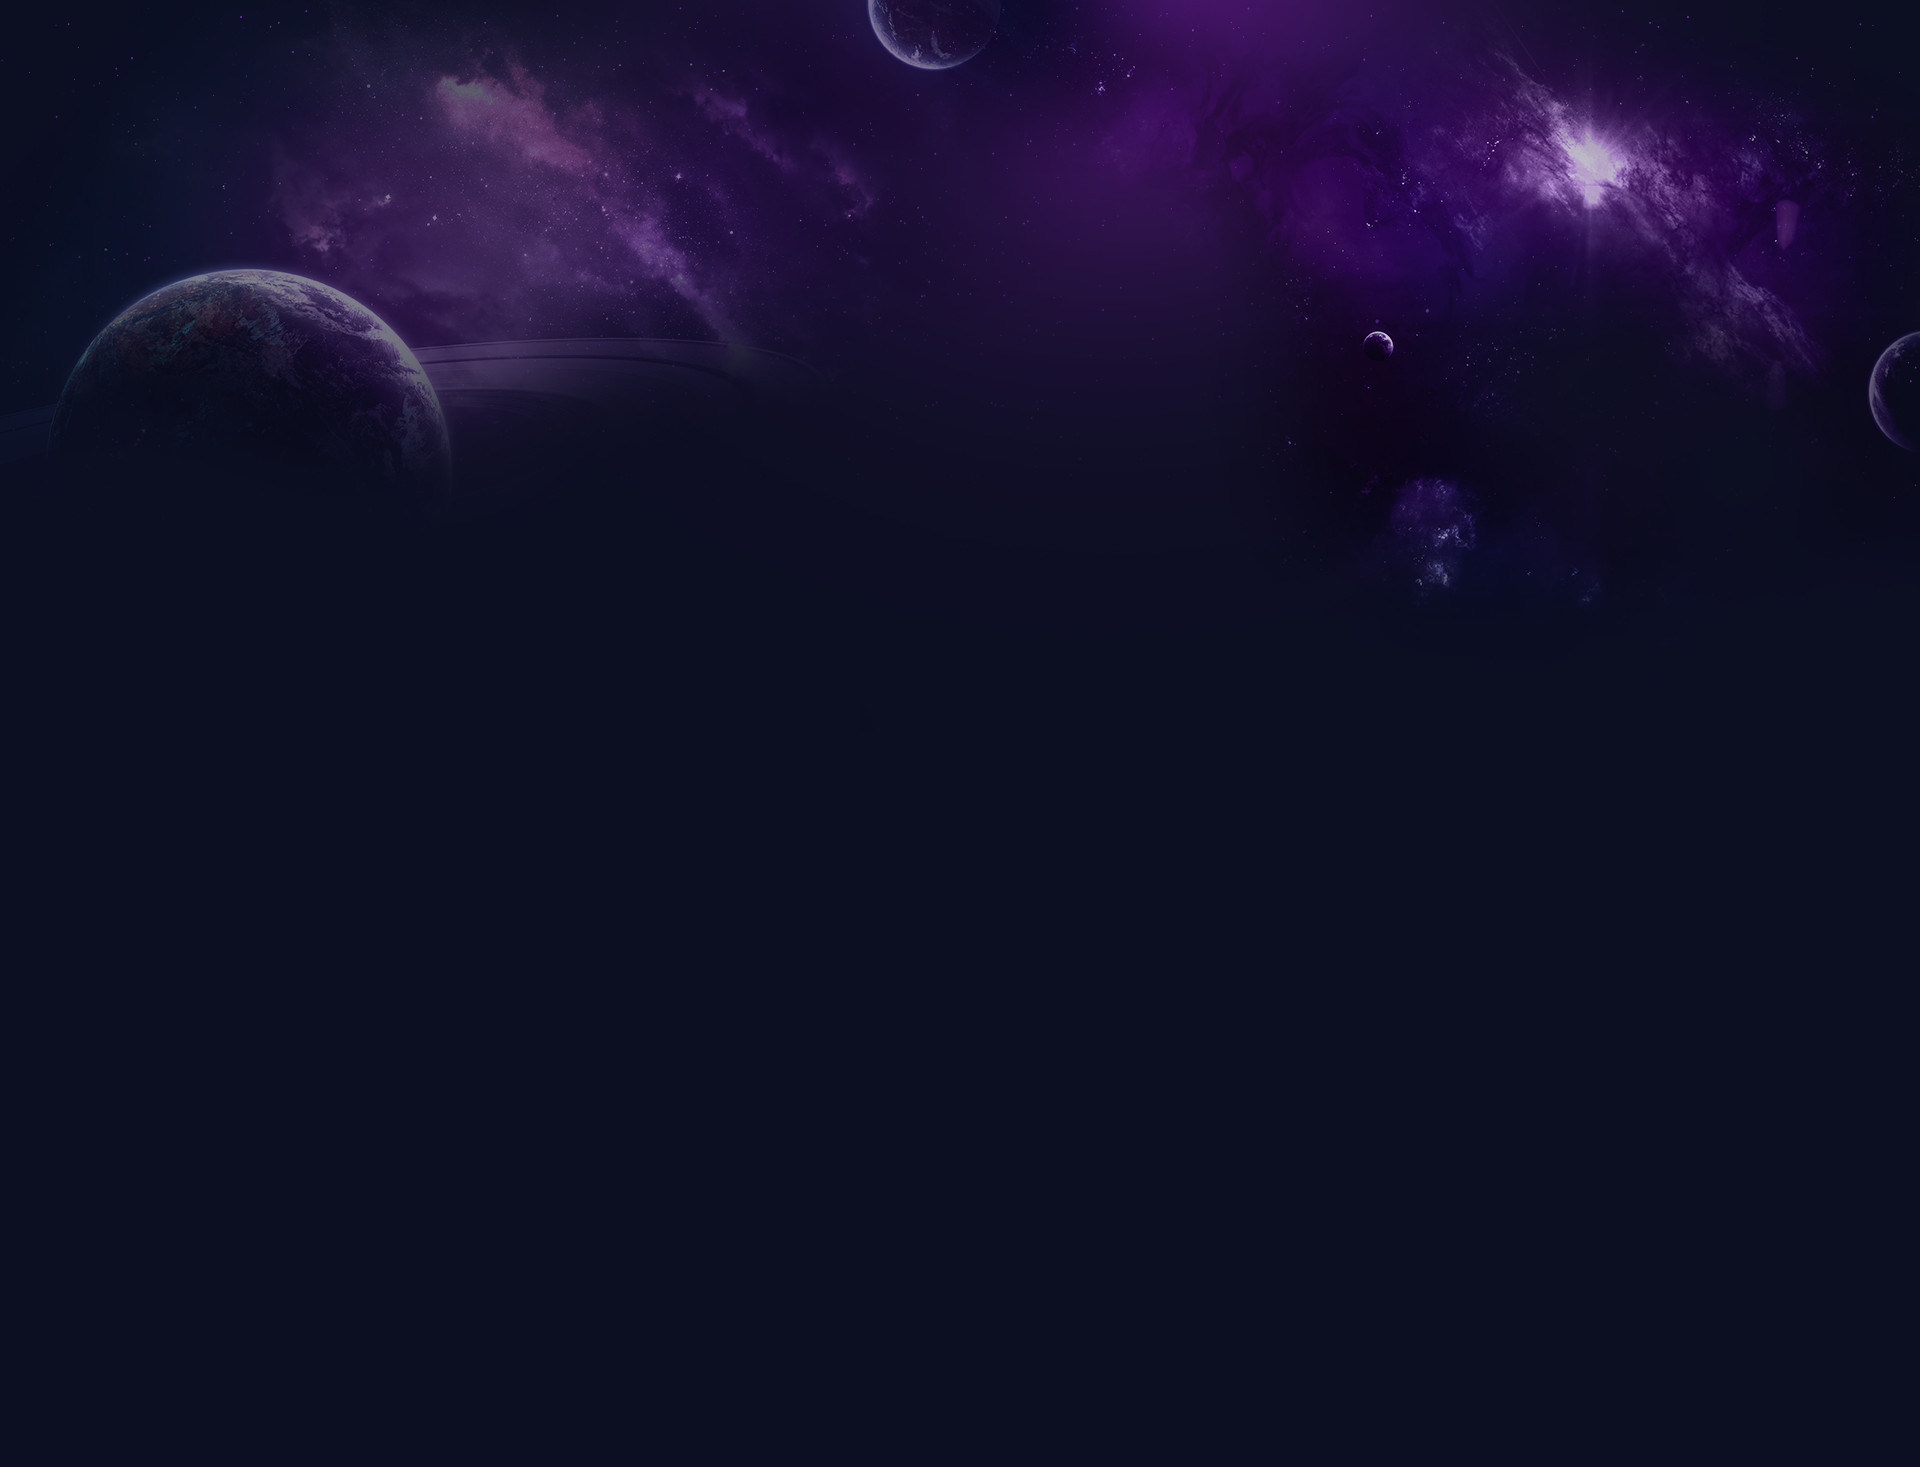
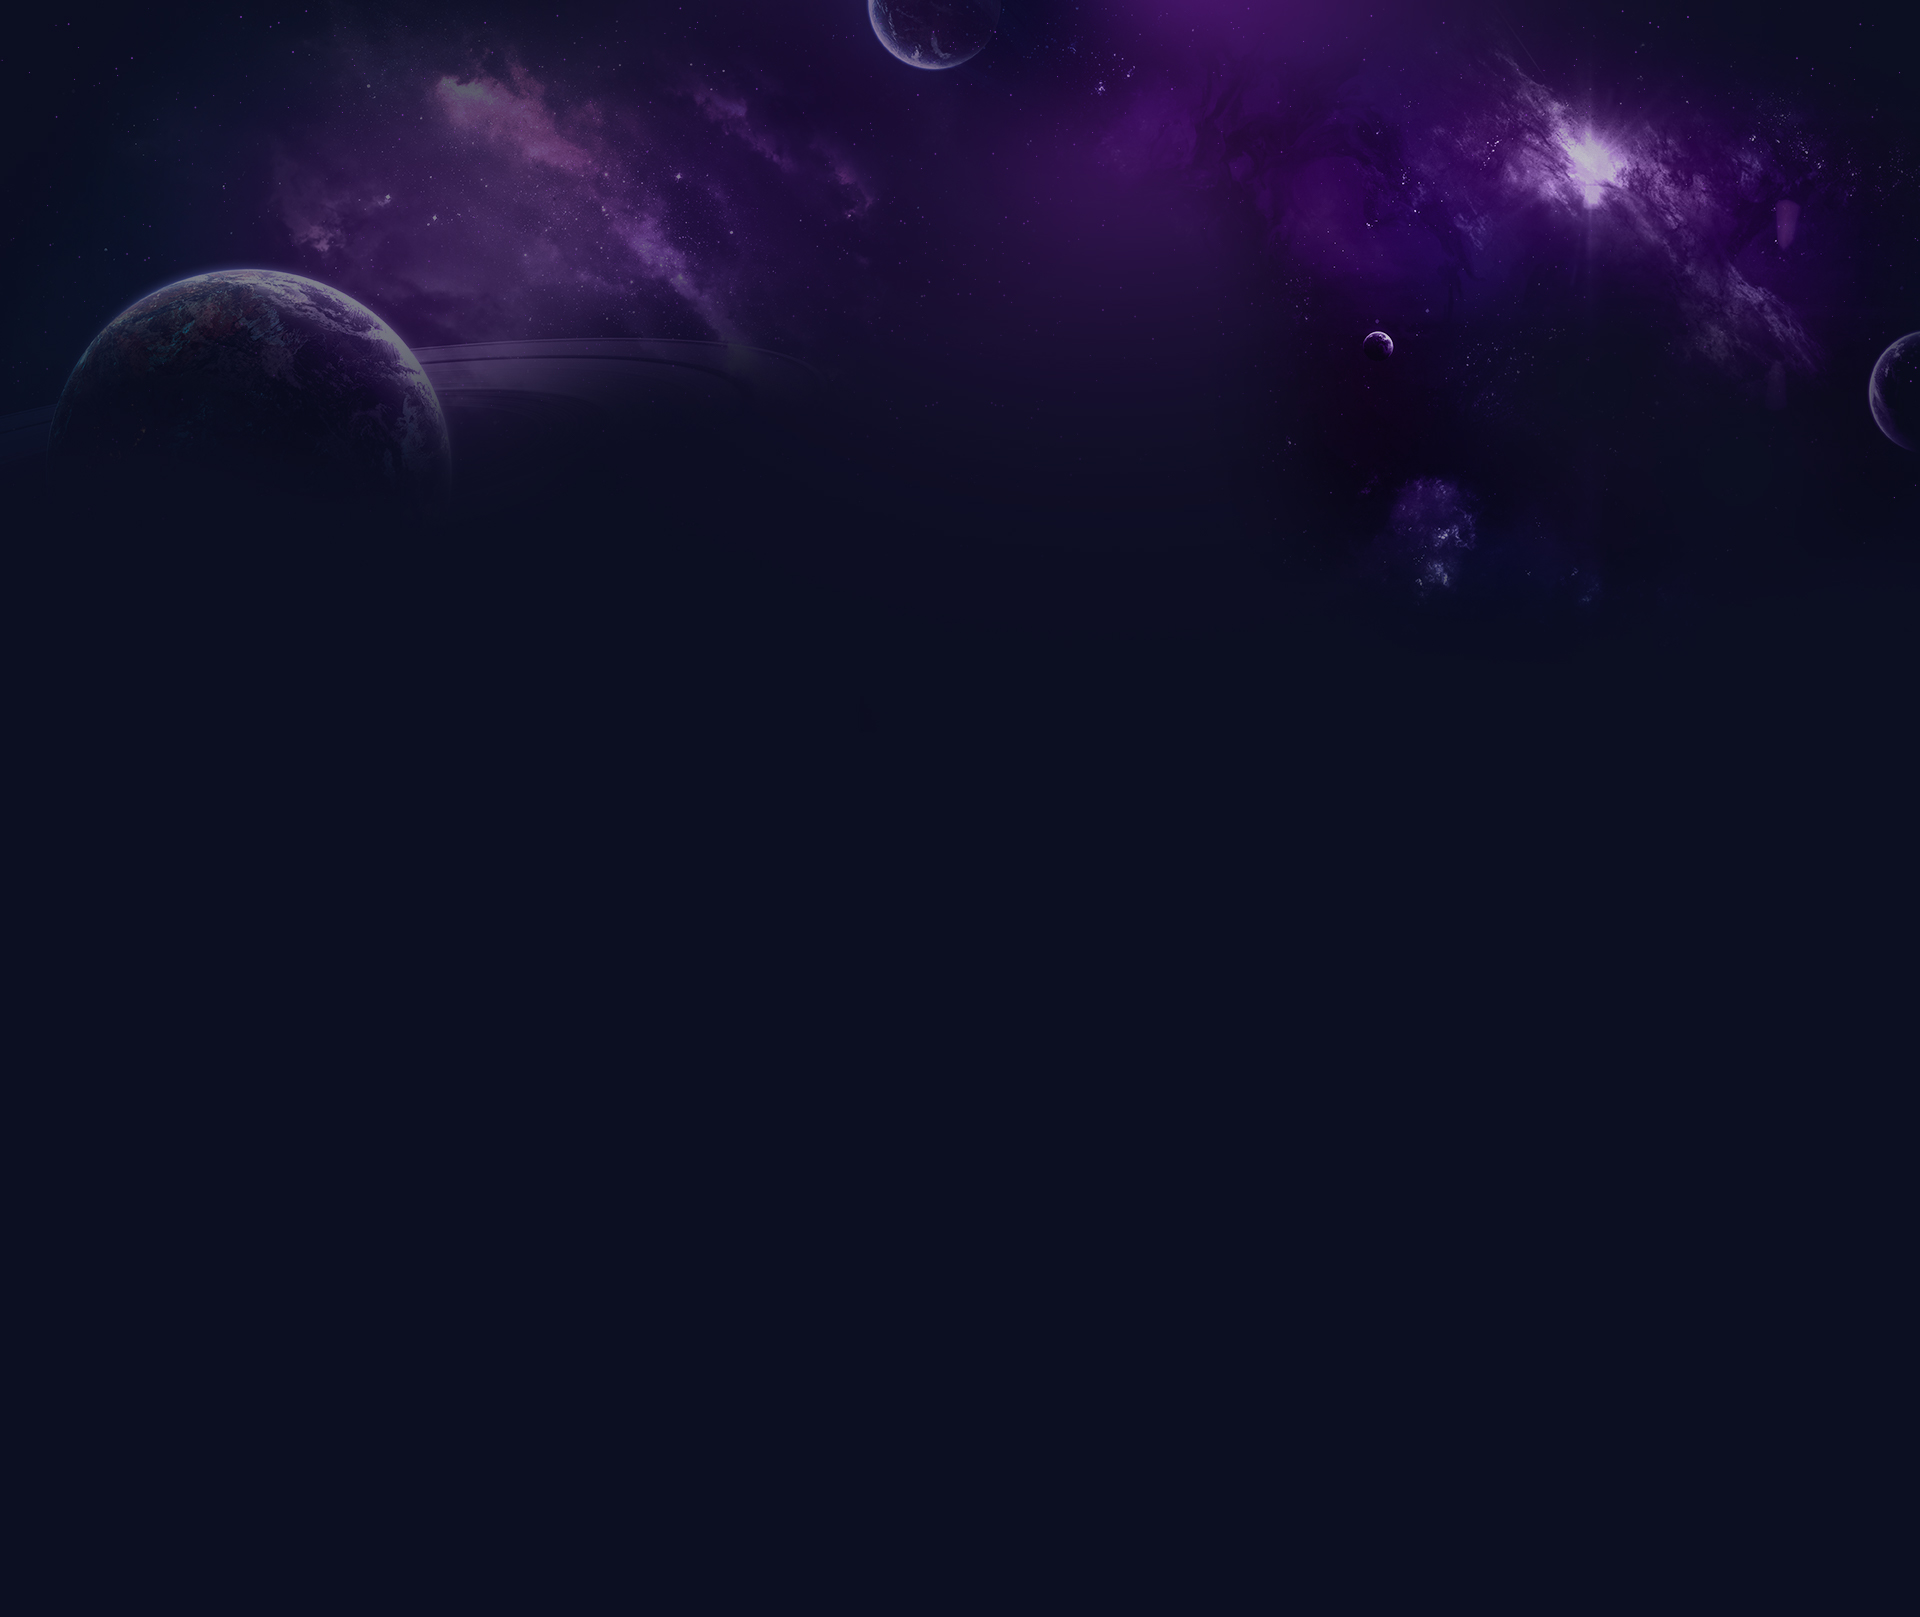
higher res images, try to persist data

diff --git a/components/PageContainer.tsx b/components/PageContainer.tsx
@@ -86,7 +86,7 @@ const useStyles = makeStyles<Theme, { menuToggle: boolean } & ContainerProps >( 
     },
     [theme.breakpoints.up('md')]:{
       backgroundPosition: props => (props.background || 'default') == 'default' ? 
-        props.menuToggle ? 'left calc(100% - 50% + 120px) top 0' : 'left calc(100% - 50% + 32px) top 0'
+        props.menuToggle ? `left calc( 50% + ${ theme.palette.type =='dark' ? 74 : 120}px) top 0` : `left calc( 50% - ${ theme.palette.type =='dark' ? 12 : 32}px ) top 0`
         : 'top',
     },
     backgroundRepeat: 'no-repeat',
@@ -98,8 +98,8 @@ const useStyles = makeStyles<Theme, { menuToggle: boolean } & ContainerProps >( 
 
 const backgrounds = {
   dark:{
-    default: '/backgrounds/CenteredBaseBackground.png',
-    galactic:'/backgrounds/Galactic.jpg',
+    default: '/backgrounds/defaultBg.jpg',
+    galactic:'/backgrounds/galactic.jpg',
   },
   light:{
     default: '/backgrounds/light/palms.jpg',

diff --git a/pages/_app.tsx b/pages/_app.tsx
@@ -18,7 +18,15 @@ function MyApp({ Component, pageProps }) {
     if( jssStyles ){
       jssStyles.parentElement.removeChild(jssStyles)
     }
+    setDark( Boolean( localStorage.getItem('theme') ?? true ) )
   }, [])
+
+  useEffect( () => {
+    const initState = localStorage.getItem('theme')
+    const initBool = Boolean(initState)
+    if(initState && initBool == dark) return
+    localStorage.setItem('theme', String(!!dark))
+  },[dark])
 
   const getLibrary = ( provider ): Web3 => provider
 
